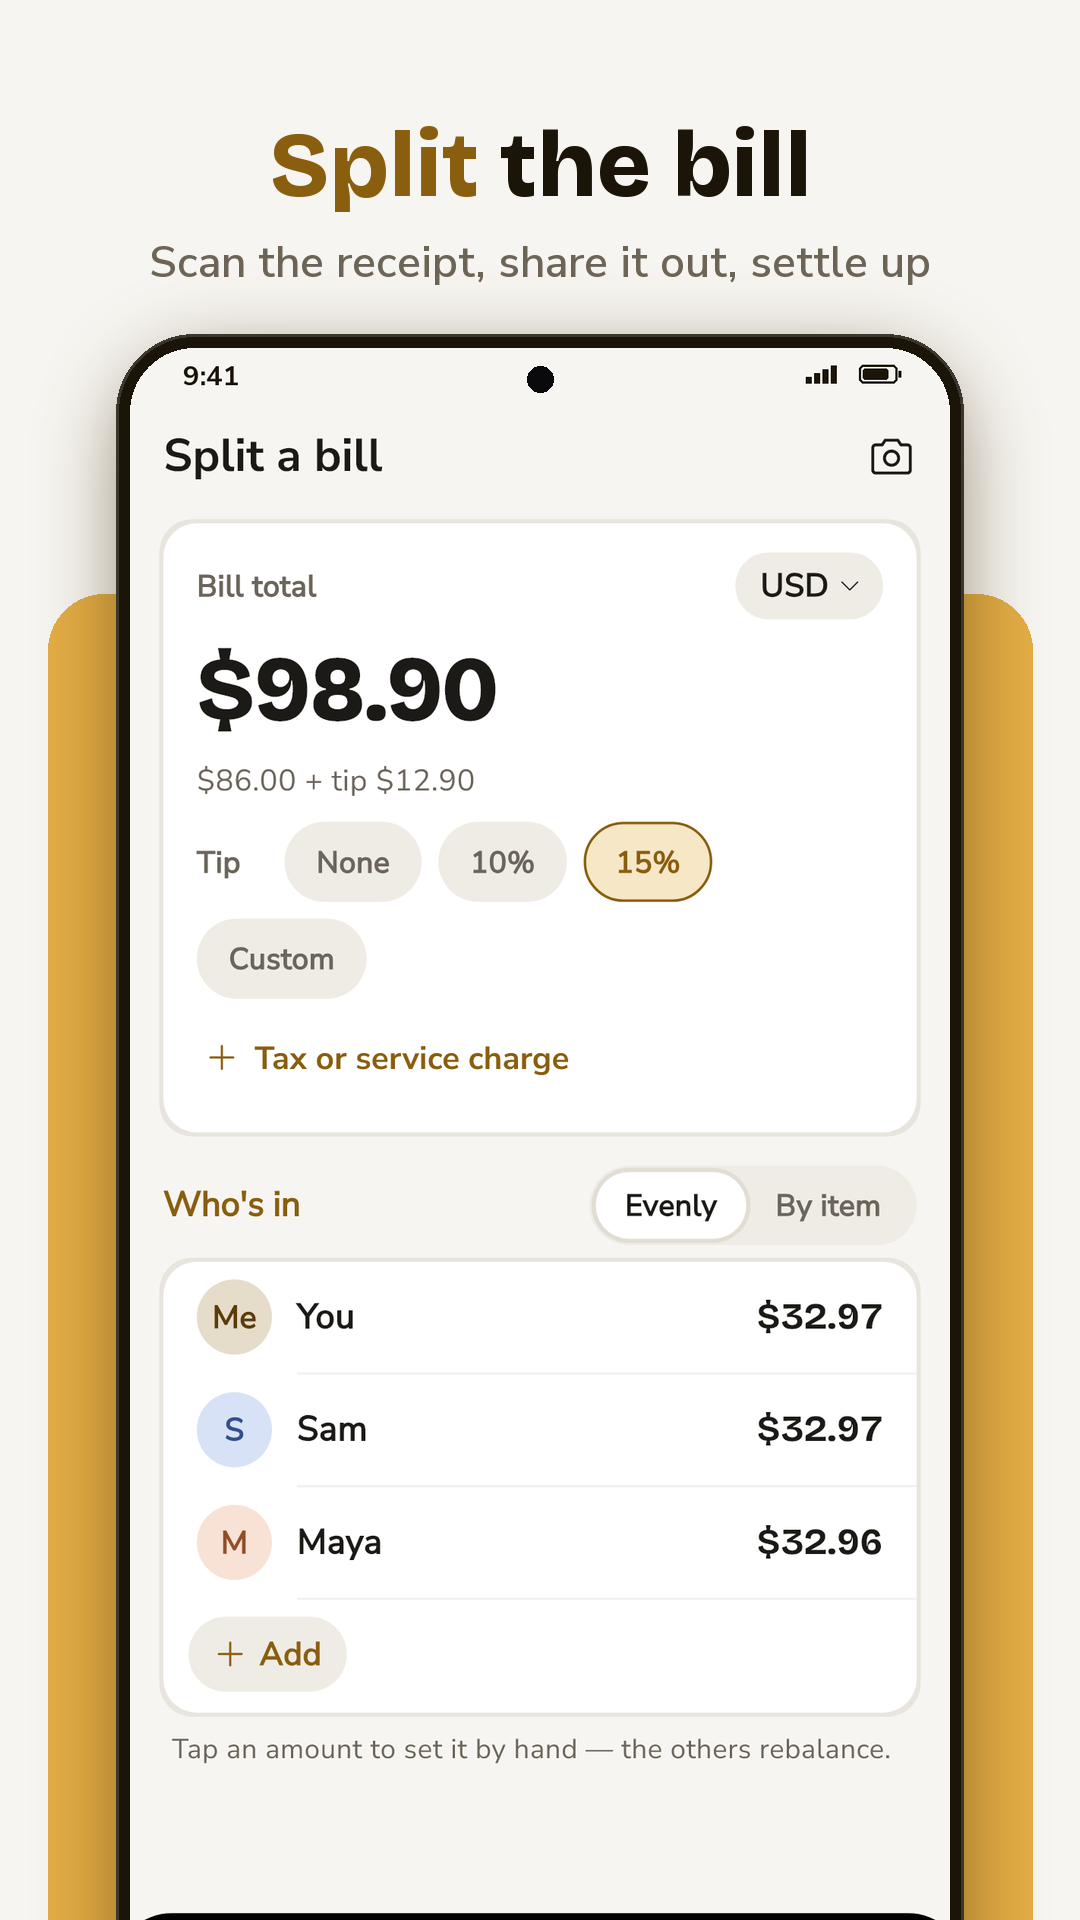
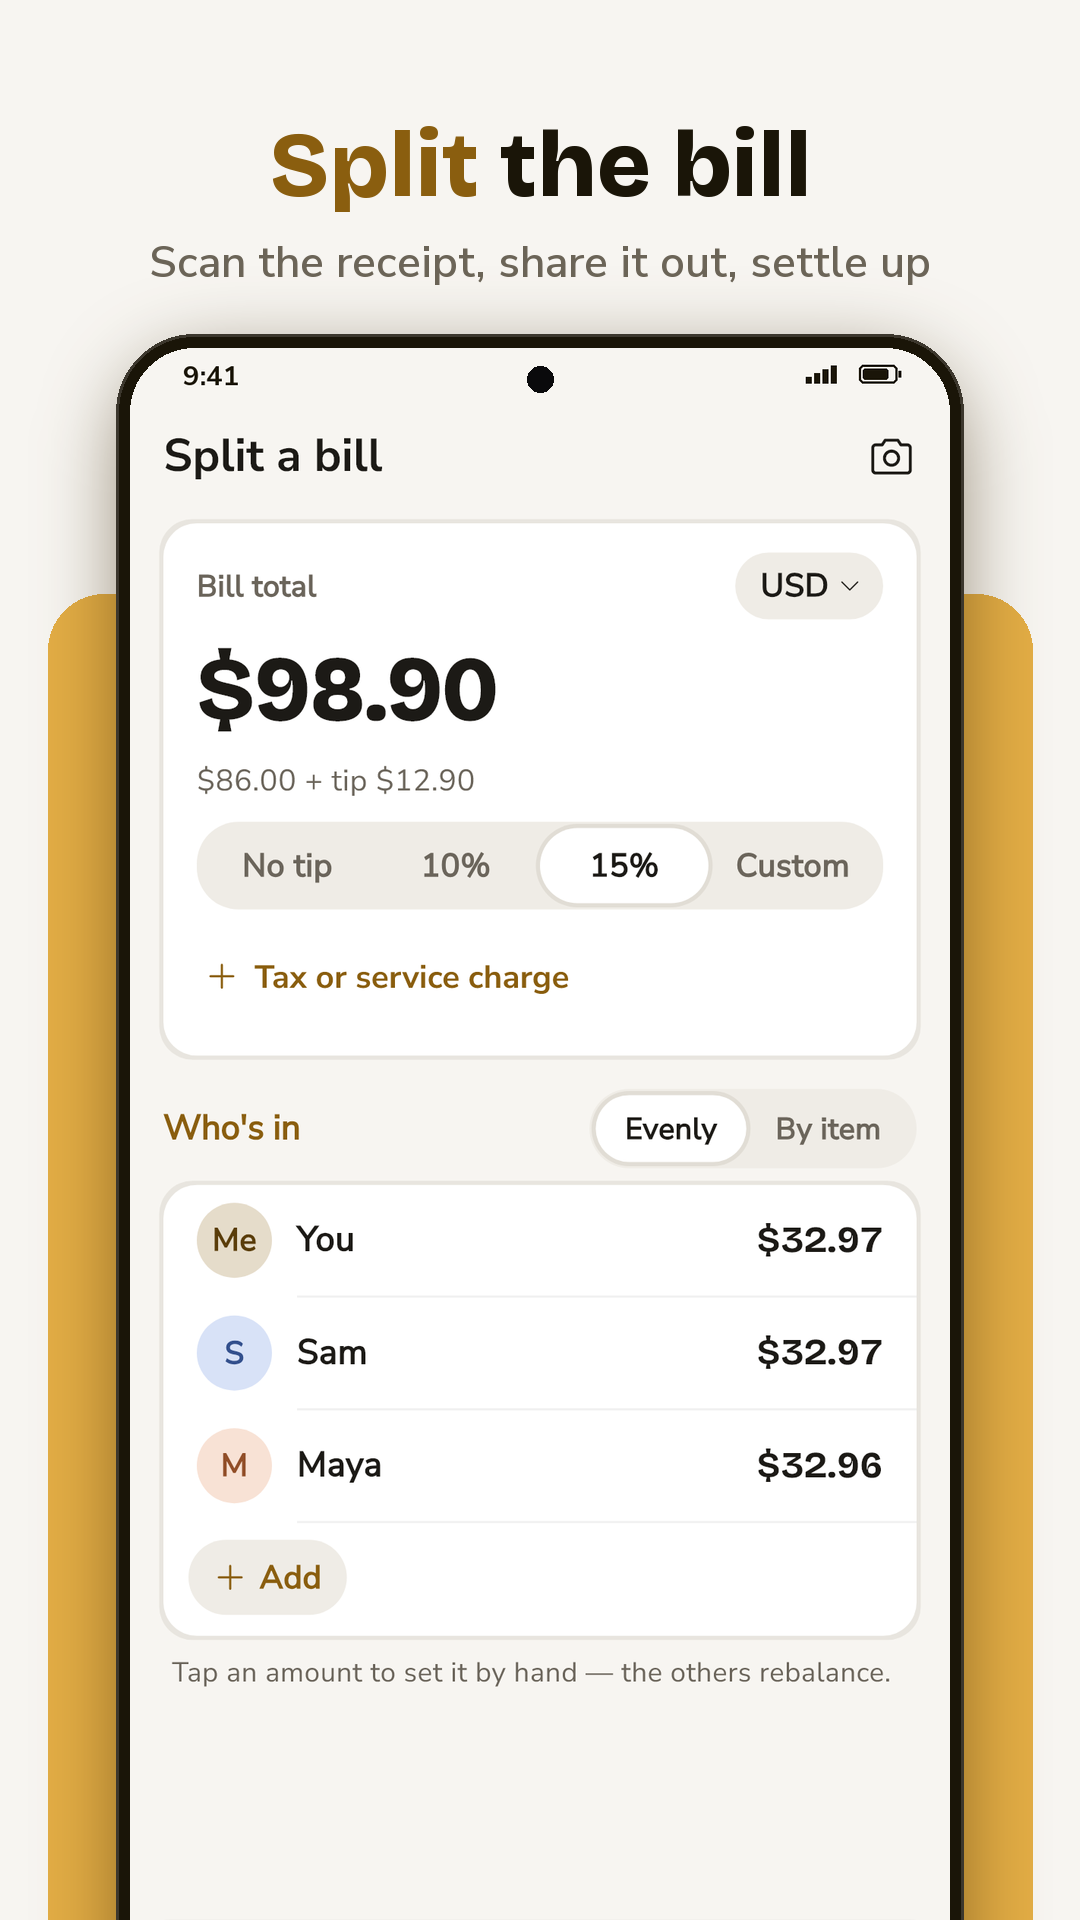
0.12.2+15: refreshed store screenshots; upload script sets the listing images

diff --git a/tool/play_upload.py b/tool/play_upload.py
@@ -12,6 +12,11 @@ BUDGETSEAL_PLAY_KEY (default C:/Users/Samer/Documents/keys/budgetseal-play.json)
       language: en-US.txt, ar.txt, fr-FR.txt) and sends it for review.
       --draft leaves it as a draft in Play Console instead.
 
+  python tool/play_upload.py images --icon docs/store_assets/icon_512.png \
+      --feature docs/store_assets/feature_graphic.png --screenshots a.png b.png …
+      Replaces the en-US listing's icon, feature graphic and phone screenshots
+      (the screenshots in the order given).
+
 Needs: pip install google-api-python-client google-auth
 """
 
@@ -89,6 +94,34 @@ def upload(api, aab, track, notes_dir, draft, name):
     print(f"{'Saved as a draft on' if draft else 'Sent for review on'} {track}: {code}")
 
 
+def images(api, language, icon, feature, screenshots):
+    """Replaces the listing's icon, feature graphic and phone screenshots."""
+    edits = api.edits()
+    edit_id = edits.insert(packageName=PACKAGE, body={}).execute()['id']
+    try:
+        def put(kind, path):
+            edits.images().upload(
+                packageName=PACKAGE, editId=edit_id, language=language,
+                imageType=kind, media_body=MediaFileUpload(path, mimetype='image/png')).execute()
+            print(f'{kind}: {pathlib.Path(path).name}')
+
+        if icon:
+            put('icon', icon)
+        if feature:
+            put('featureGraphic', feature)
+        if screenshots:
+            # Upload replaces nothing: clear the old set, then add in order.
+            edits.images().deleteall(packageName=PACKAGE, editId=edit_id,
+                                     language=language, imageType='phoneScreenshots').execute()
+            for s in screenshots:
+                put('phoneScreenshots', s)
+        edits.commit(packageName=PACKAGE, editId=edit_id).execute()
+    except Exception:
+        edits.delete(packageName=PACKAGE, editId=edit_id).execute()
+        raise
+    print('Store listing images sent for review')
+
+
 def main():
     p = argparse.ArgumentParser()
     p.add_argument('--key', default=os.environ.get('BUDGETSEAL_PLAY_KEY', DEFAULT_KEY))
@@ -100,11 +133,18 @@ def main():
     up.add_argument('--notes-dir', required=True)
     up.add_argument('--name', help='Release name (Play uses the version name if empty)')
     up.add_argument('--draft', action='store_true')
+    im = sub.add_parser('images')
+    im.add_argument('--language', default='en-US')
+    im.add_argument('--icon')
+    im.add_argument('--feature')
+    im.add_argument('--screenshots', nargs='+', help='Phone screenshots, in store order')
     args = p.parse_args()
 
     api = service(args.key)
     if args.cmd == 'status':
         status(api)
+    elif args.cmd == 'images':
+        images(api, args.language, args.icon, args.feature, args.screenshots)
     else:
         upload(api, args.aab, args.track, args.notes_dir, args.draft, args.name)
 
